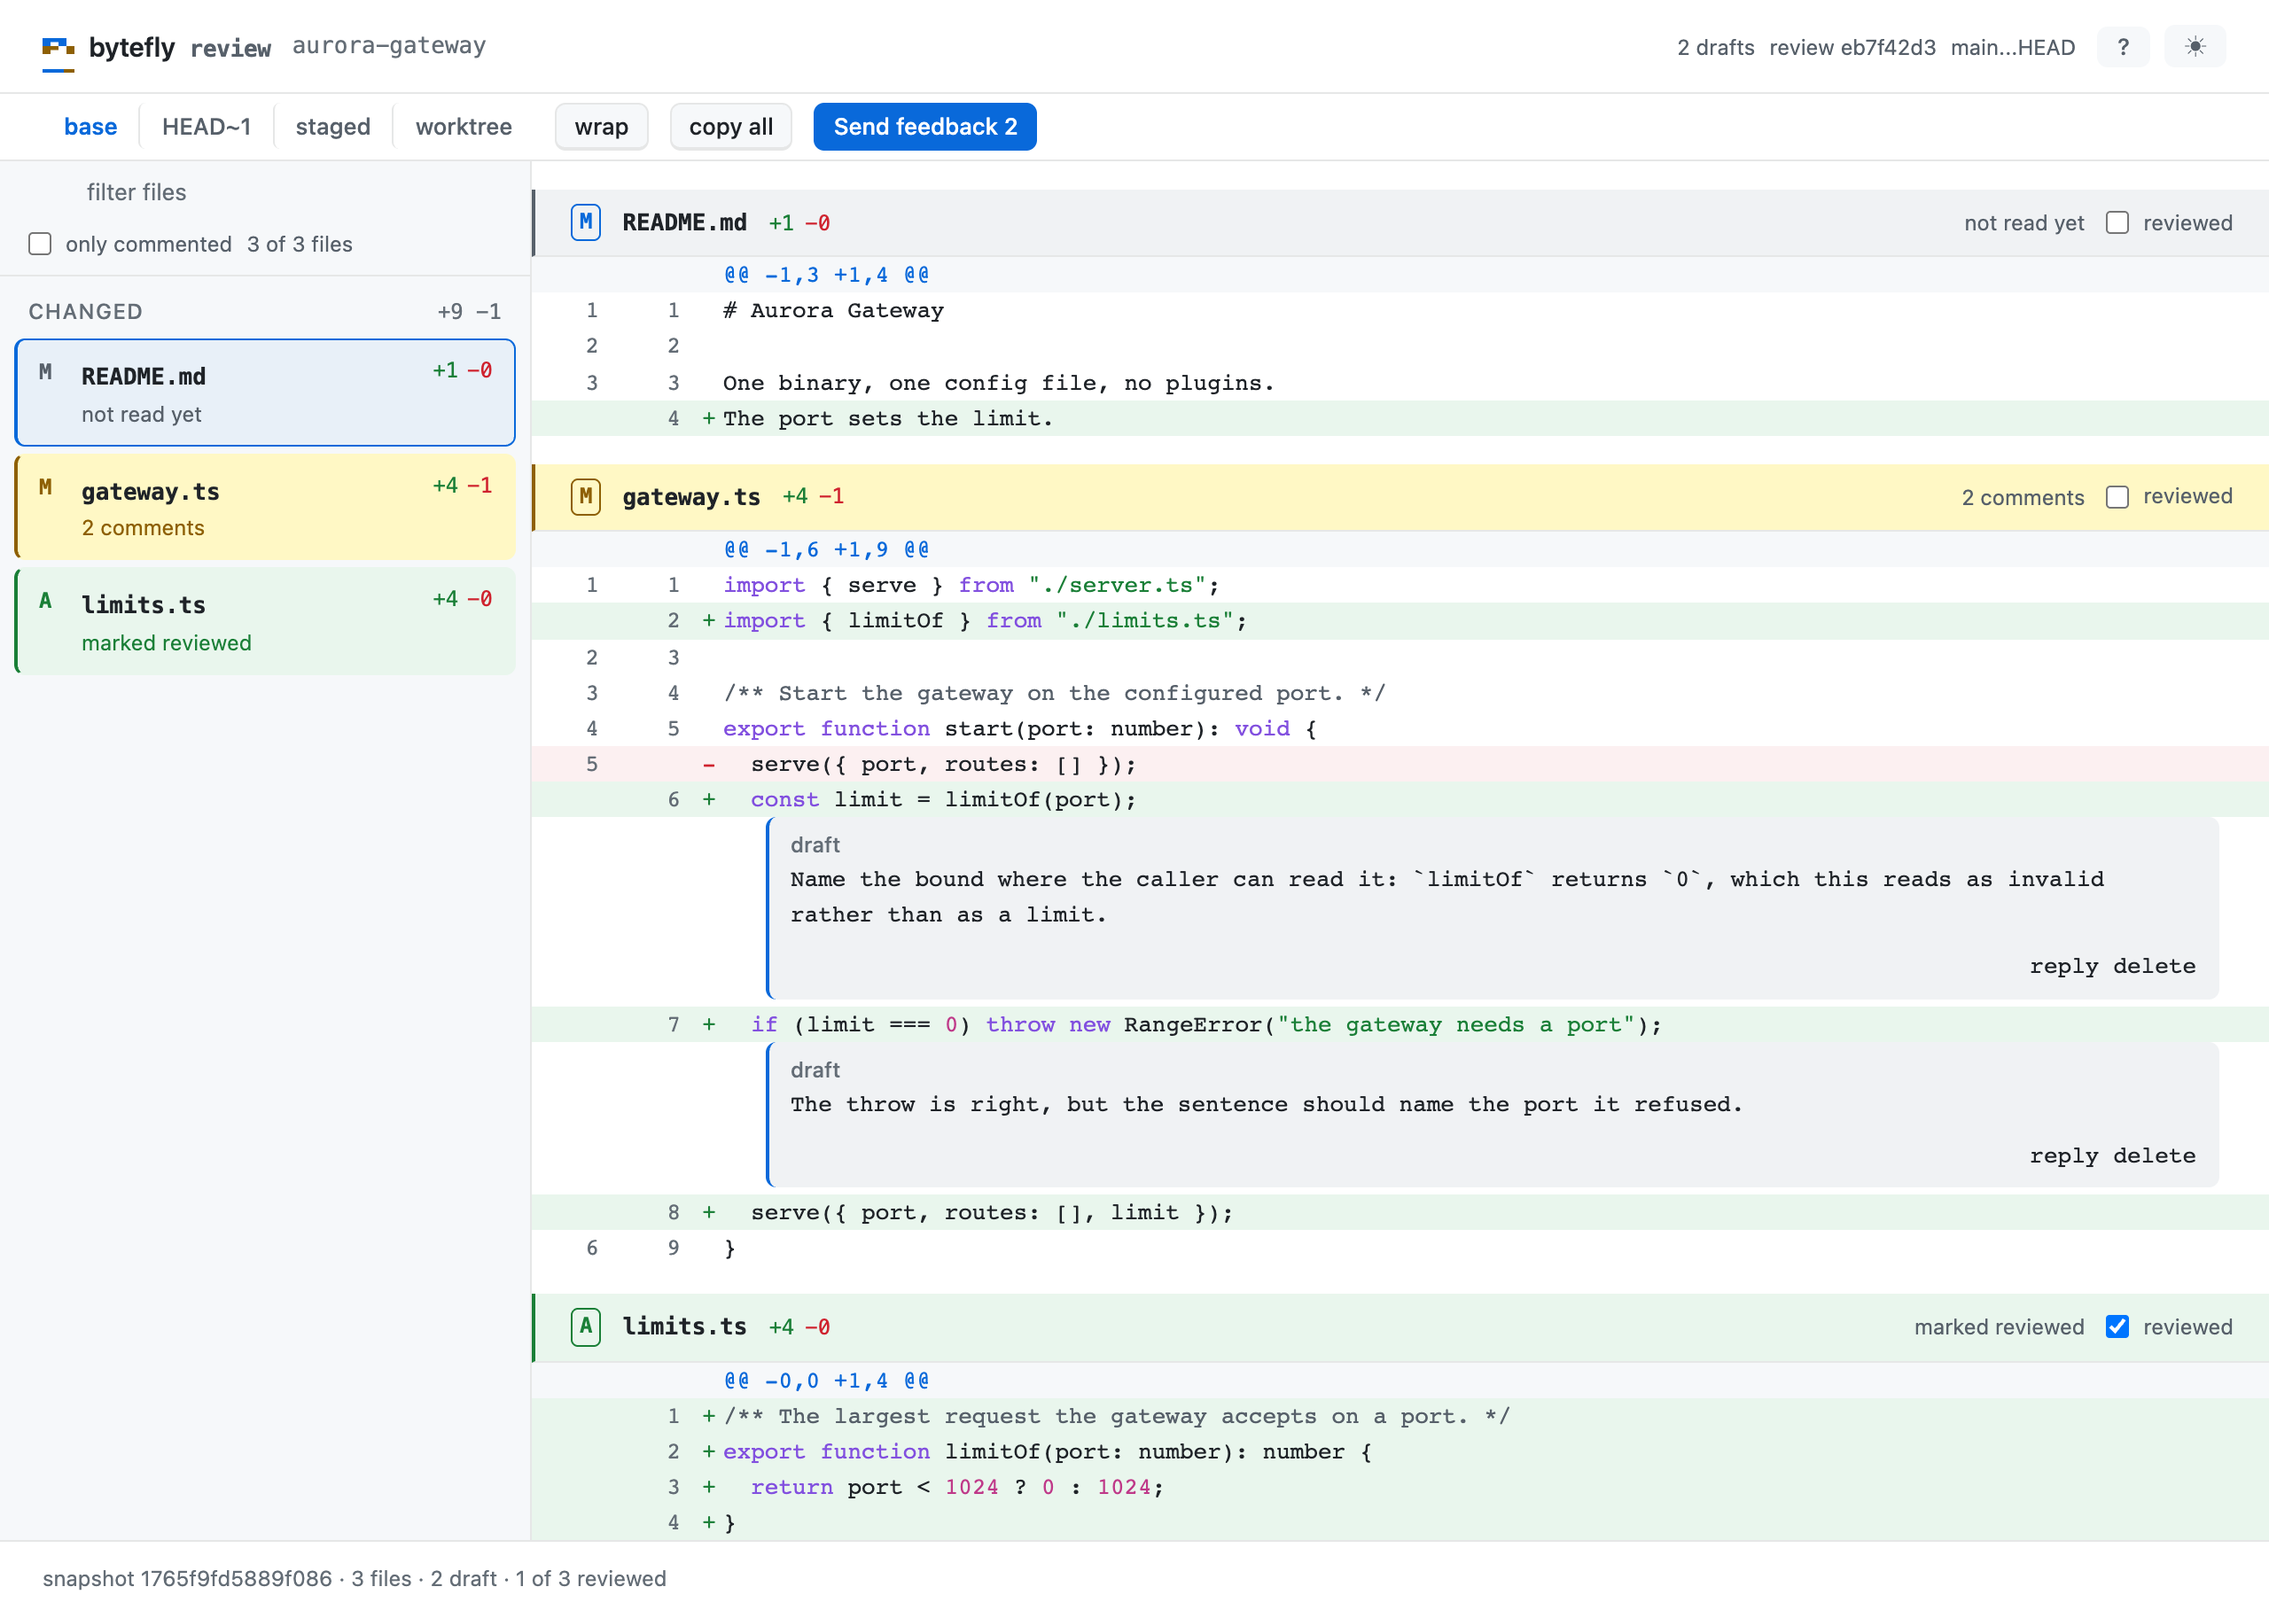
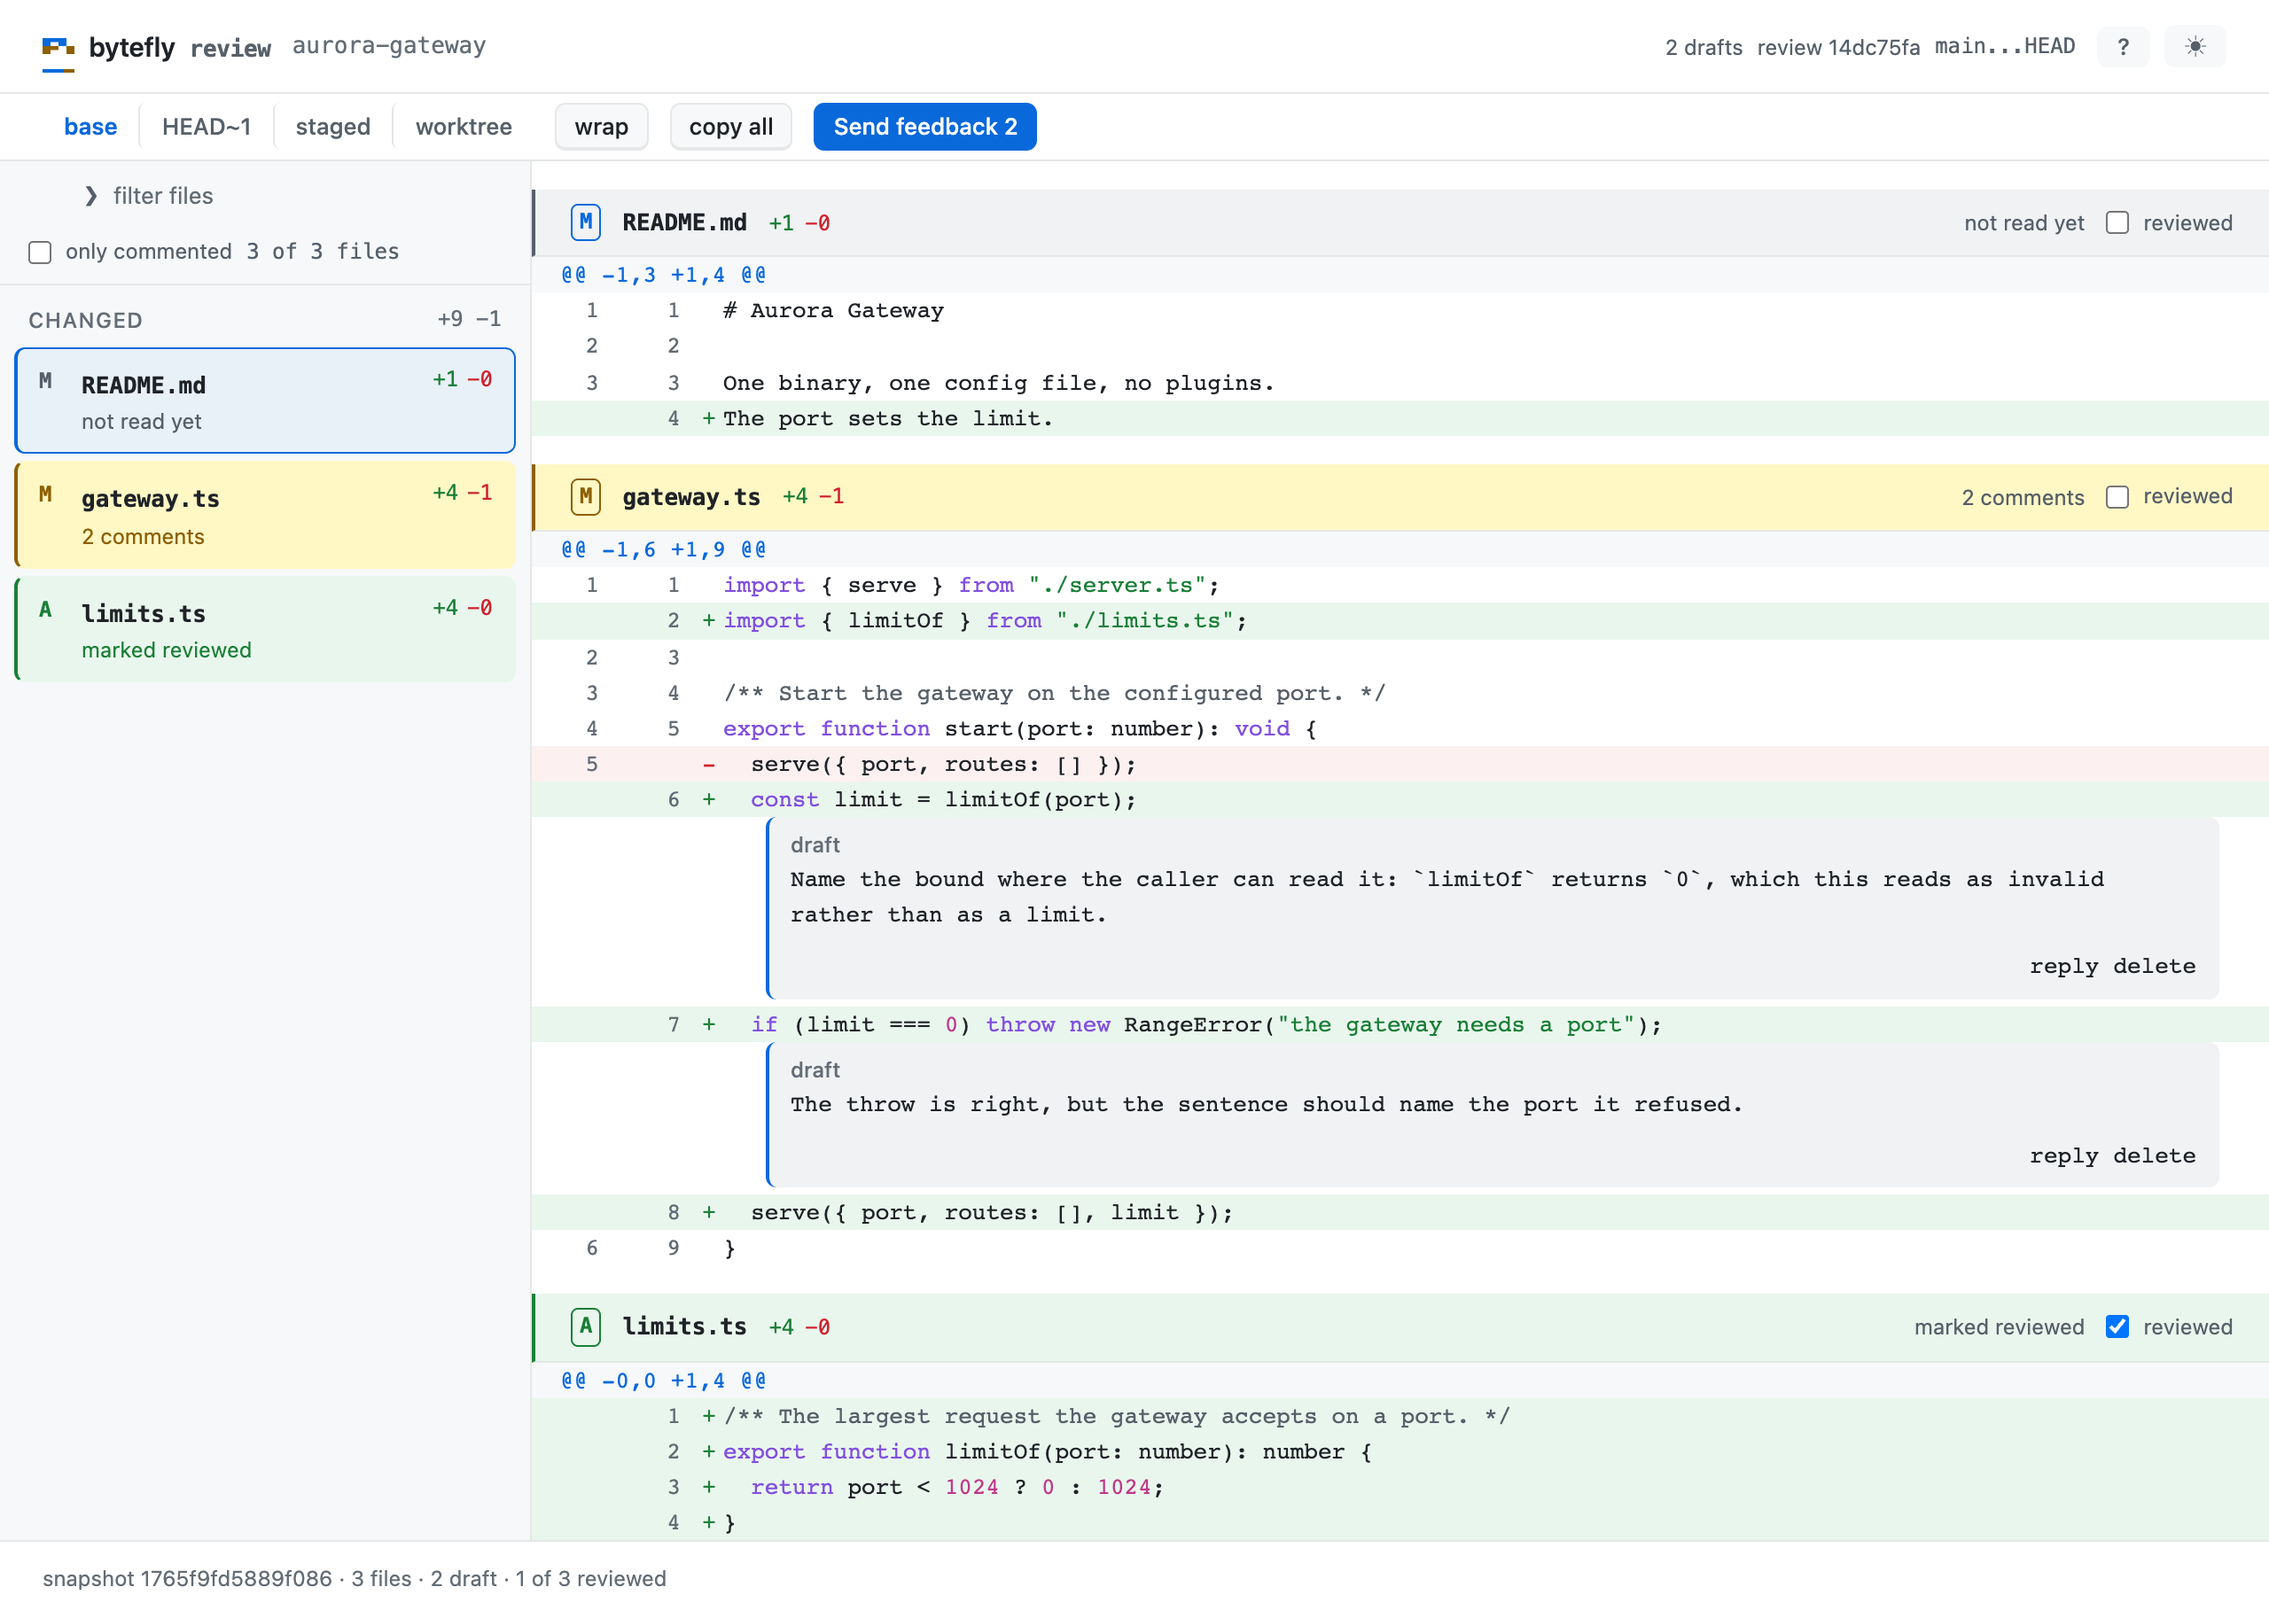
fix(code-review): wrap a narrow diff under its own column, and give the filter its prompt (#750)

diff --git a/extensions/code-review/view/styles.ts b/extensions/code-review/view/styles.ts
@@ -64,10 +64,16 @@ export const REVIEW_CSS = `
 .bf-tag--mono{font-family:var(--font-mono);font-size:var(--fs-xs)}
 .rv-diff{margin:0;padding:0;background:var(--canvas)}
 .rv-diff .bf-diff-hunk{display:block}
-.rv-diff .bf-diff-line{display:block;white-space:pre;padding:0 var(--space-4) 0 0;min-height:1.55em}
-.rv-diff .browse-diff-no{display:inline-block;width:46px;padding-right:var(--space-2);text-align:right;color:var(--dim);user-select:none;cursor:pointer}
+/* A line owns the two gutters as positioned columns, so its text starts past them and a
+   wrapped line hangs under the code it continues rather than at the left edge. A hunk head,
+   a meta line, and a note have no gutters and take the whole row. */
+.rv-diff .bf-diff-line{position:relative;display:block;white-space:pre;padding:0 var(--space-4) 0 108px;min-height:1.55em}
+.rv-diff .bf-diff-line--hunk,.rv-diff .bf-diff-line--meta,.rv-diff .bf-diff-line--note{padding-left:var(--space-4)}
+.rv-diff .browse-diff-no{position:absolute;top:0;display:inline-block;width:46px;padding-right:var(--space-2);text-align:right;color:var(--dim);user-select:none;cursor:pointer}
+.rv-diff .browse-diff-no:nth-of-type(1){left:0}
+.rv-diff .browse-diff-no:nth-of-type(2){left:46px}
 .rv-diff .browse-diff-no:hover{color:var(--text);background:var(--accent-soft)}
-.rv-diff .browse-diff-sign{display:inline-block;width:16px;text-align:center;color:var(--muted);user-select:none}
+.rv-diff .browse-diff-sign{position:absolute;top:0;left:92px;display:inline-block;width:16px;text-align:center;color:var(--muted);user-select:none}
 .rv-diff .bf-diff-line--add{background:var(--success-soft)}
 .rv-diff .bf-diff-line--add .browse-diff-sign{color:var(--success)}
 .rv-diff .bf-diff-line--del{background:var(--danger-soft)}
@@ -100,4 +106,11 @@ export const REVIEW_CSS = `
 .rv-dialog-item:first-child{border-top:0;padding-top:0}
 .rv-dialog-path{margin:0 0 2px;font:var(--fs-xs)/1.5 var(--font-mono);color:var(--dim)}
 .rv-dialog-line{margin:0;font-size:var(--fs-sm);white-space:pre-wrap;overflow-wrap:anywhere}
+/* The page rules the diff's line as one row, which is more specific than the kit's narrow
+   wrap; below the fold a line wraps here too, because a path or a call is a fact the reader
+   came for and an overlay scrollbar is no way to reach it. This sits after the diff rules so
+   it wins at equal specificity. */
+@media (max-width:${REVIEW_NARROW_PX}px){
+  .rv-diff .bf-diff-line{white-space:pre-wrap;overflow-wrap:anywhere}
+}
 `;

diff --git a/extensions/code-review/view/page.ts b/extensions/code-review/view/page.ts
@@ -234,7 +234,7 @@ ${appHead({
 <div class="bf-app__body rv-body">
   <aside class="rv-side" aria-label="Files in this review">
     <div class="rv-side-top">
-      <label class="bf-field bf-field--filter"><span class="sr-only">Filter files</span><input class="bf-input" id="rv-filter" type="search" placeholder="filter files" autocomplete="off"></label>
+      <label class="bf-field bf-field--filter"><span class="bf-field__prompt" aria-hidden="true"></span><span class="sr-only">Filter files</span><input class="bf-input" id="rv-filter" type="search" placeholder="filter files" autocomplete="off"></label>
       <div class="rv-side-row">
         <label class="rv-file__check"><input type="checkbox" id="rv-only-commented"> only commented</label>
         <span class="bf-tag bf-tag--mono" id="rv-file-count">${files.length} of ${files.length} files</span>
